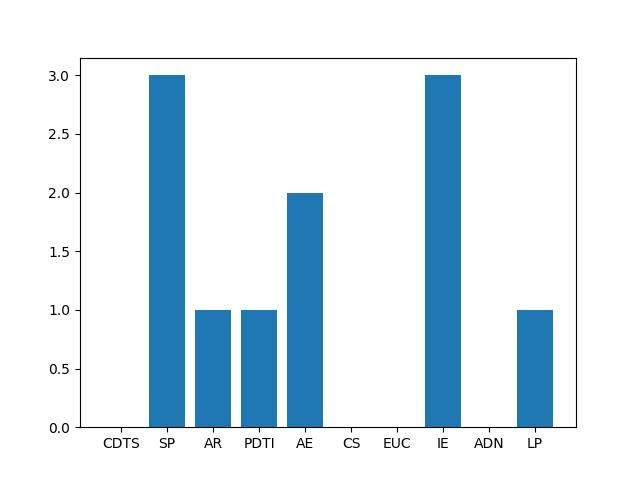
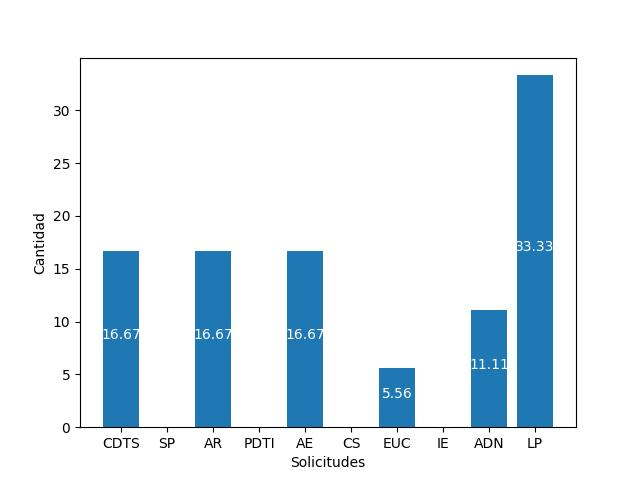
tengo sueño

diff --git a/mnb.py b/mnb.py
@@ -27,7 +27,7 @@ cursor.execute(query2)
 total = cursor.fetchall()
 total_ent = [int(x) for tup in total for x in tup]
 t = int(total_ent[0])
-print(t)
+
 
 query3 = "SELECT carrera from subprograma WHERE id_carrera = 101"
 cursor.execute(query3)
@@ -110,21 +110,20 @@ suma = [porcentaje(fs1)+
         porcentaje(fs8)+
         porcentaje(fs9)+
         porcentaje(fs10)]
-
-fila1 = resultado1[0]+fs1+porcentaje(fs1)
-fila2 = resultado1[1]+fs2+porcentaje(fs2)
-fila3 = resultado1[2]+fs3+porcentaje(fs3)
-fila4 = resultado1[3]+fs4+porcentaje(fs4)
-fila5 = resultado1[4]+fs5+porcentaje(fs5)
-fila6 = resultado1[5]+fs6+porcentaje(fs6)
-fila7 = resultado1[6]+fs7+porcentaje(fs7)
-fila8 = resultado1[7]+fs8+porcentaje(fs8)
-fila9 = resultado1[8]+fs9+porcentaje(fs9)
-fila10 = resultado1[9]+fs10+porcentaje(fs10)
+x = ['CDTS', 'SP', 'AR','PDTI', 'AE','CS','EUC','IE','ADN','LP']
+fila1 = [x[0]]+[resultado1[0][1]]+fs1+porcentaje(fs1)
+fila2 = [x[1]]+[resultado1[1][1]]+fs2+porcentaje(fs2)
+fila3 = [x[2]]+[resultado1[2][1]]+fs3+porcentaje(fs3)
+fila4 = [x[3]]+[resultado1[3][1]]+fs4+porcentaje(fs4)
+fila5 = [x[4]]+[resultado1[4][1]]+fs5+porcentaje(fs5)
+fila6 = [x[5]]+[resultado1[5][1]]+fs6+porcentaje(fs6)
+fila7 = [x[6]]+[resultado1[6][1]]+fs7+porcentaje(fs7)
+fila8 = [x[7]]+[resultado1[7][1]]+fs8+porcentaje(fs8)
+fila9 = [x[8]]+[resultado1[8][1]]+fs9+porcentaje(fs9)
+fila10 = [x[9]]+[resultado1[9][1]]+fs10+porcentaje(fs10)
 fila11 = ["N/A", "TOTAL", t, sum(suma[0])-0.01]
 
-print(fila1)
-
+print((resultado1[0])[1])
 
 ## creando el grafico
 ## grafico
@@ -153,11 +152,19 @@ tabla.setStyle(TableStyle([
 
 
 mensaje = f"SUBPROGRAMA: {mensajex[0]}"
-print(mensaje)
+#x = ['CDTS', 'SP', 'AR','PDTI', 'AE','CS','EUC','IE','ADN','LP']
+yp = [porcentaje(fs1)[0],porcentaje(fs2)[0],porcentaje(fs3)[0],porcentaje(fs4)[0],porcentaje(fs5)[0],porcentaje(fs6)[0],porcentaje(fs7)[0],porcentaje(fs8)[0],porcentaje(fs9)[0],porcentaje(fs10)[0]]
+y = [fila1[2], fila2[2], fila3[2], fila4[2], fila5[2], fila6[2], fila7[2], fila8[2], fila9[2], fila10[2]]
+print(y)
+plt.bar(x, yp)
+print(porcentaje(fs1))
 
-x = ['CDTS', 'SP', 'AR','PDTI', 'AE','CS','EUC','IE','ADN','LP']
-y = [0, 3, 1, 1,2,0,0,3,0,1]
-plt.bar(x, y)
+for i, v in enumerate(yp):
+    plt.text(i, v / 2, str(v), color='white', ha='center')
+
+# Etiquetas de los ejes
+plt.xlabel('Solicitudes')
+plt.ylabel('Cantidad')
 plt.savefig("plot.jpg")
 
 
@@ -169,7 +176,7 @@ c.drawImage("gobierno.jpg", 180, 720, width=250, height=30)
 c.drawString(180, 660, "Programa de Ciencias Basicas y Aplicadas")
 c.drawString(150, 620, mensaje)
 c.drawImage("plot.jpg", 110, 100, width=370, height=270)
-c.drawString(180,350, "Descripcion Grafica")
+c.drawString(250,350, "Descripcion Grafica")
 
 # Guardar el documento PDF
 c.save()
